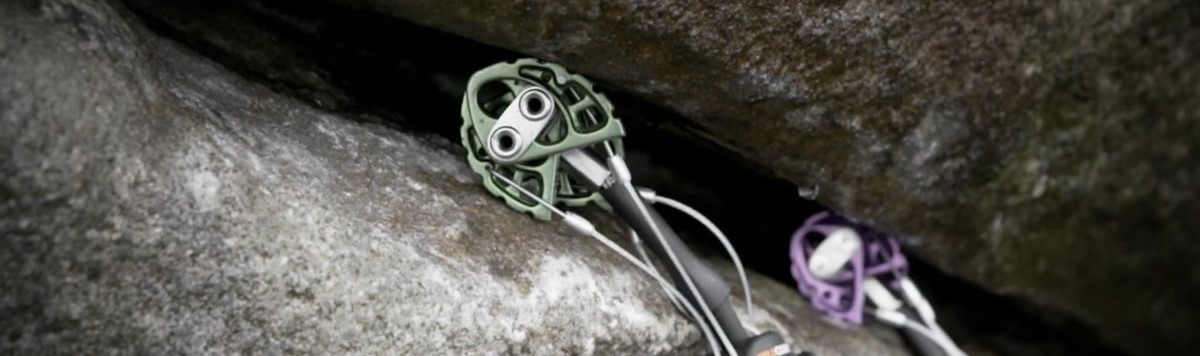
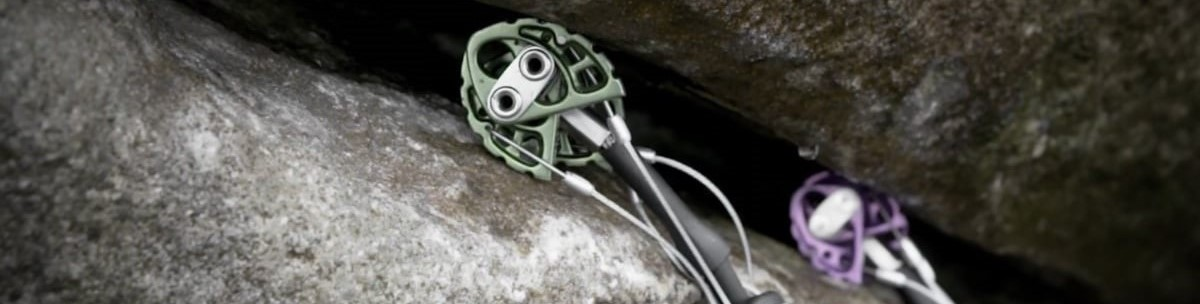
better-sizing

diff --git a/assets/styles.css b/assets/styles.css
@@ -112,5 +112,5 @@ input {
 .placement {
     background-image: url("https://github.com/porterwilcox/bootstrap-challenge-4of6/blob/master/assets/images/Friends_Placement.jpg?raw=true");
     background-size: cover;
-    height: 50vh;
+    height: 40vh;
 }
